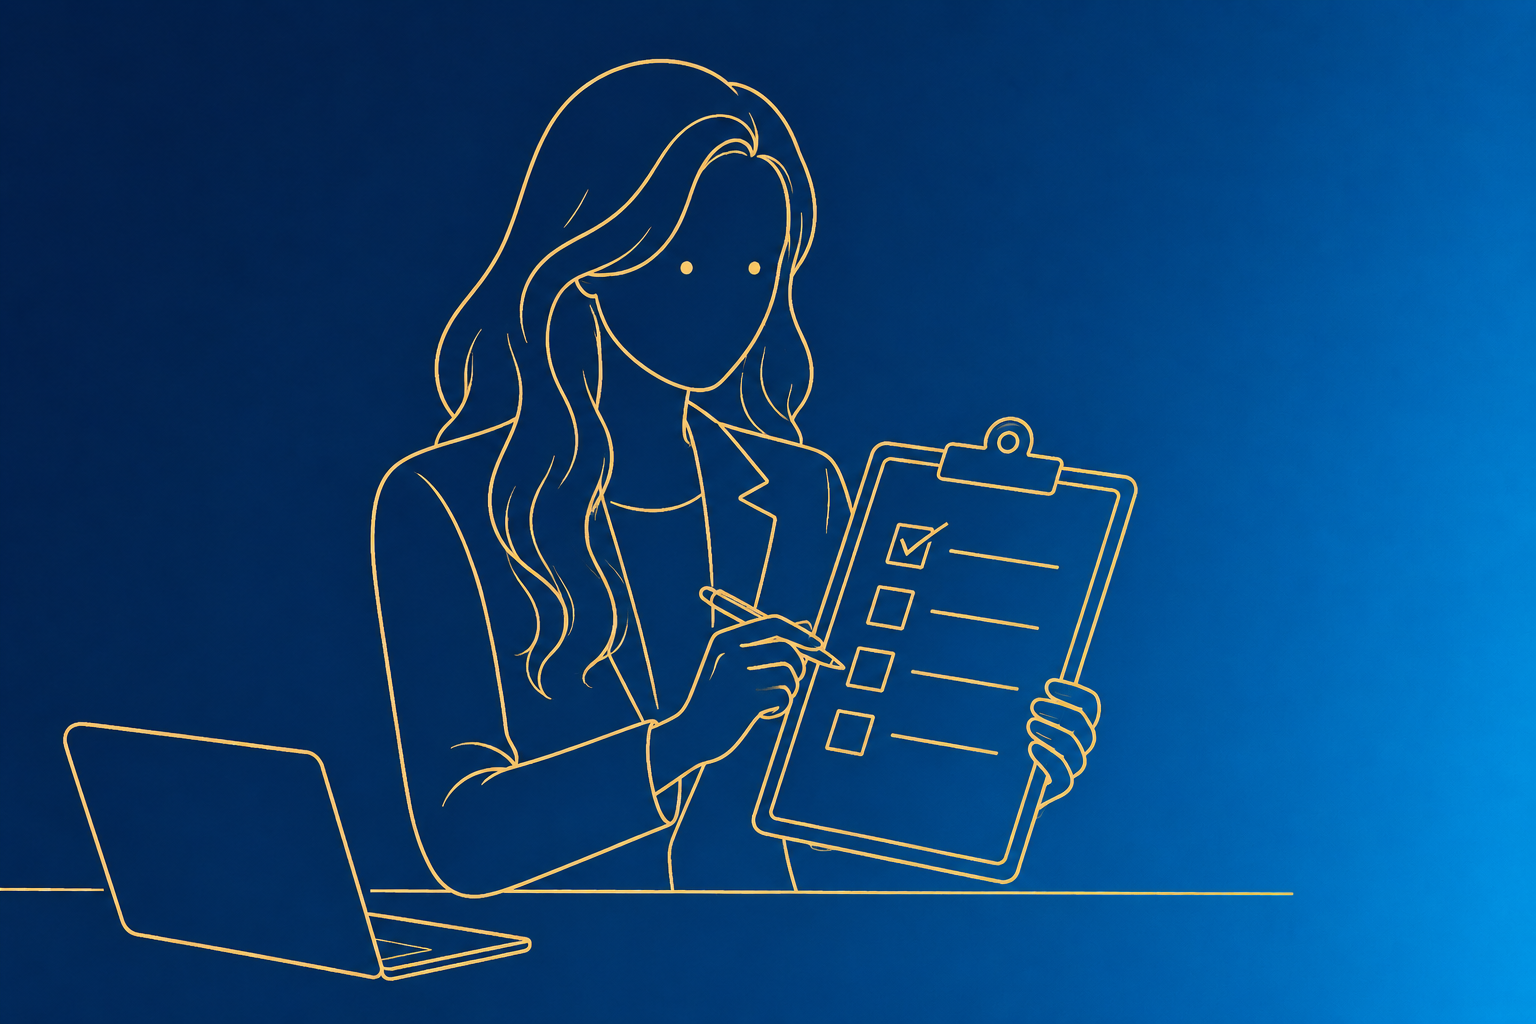
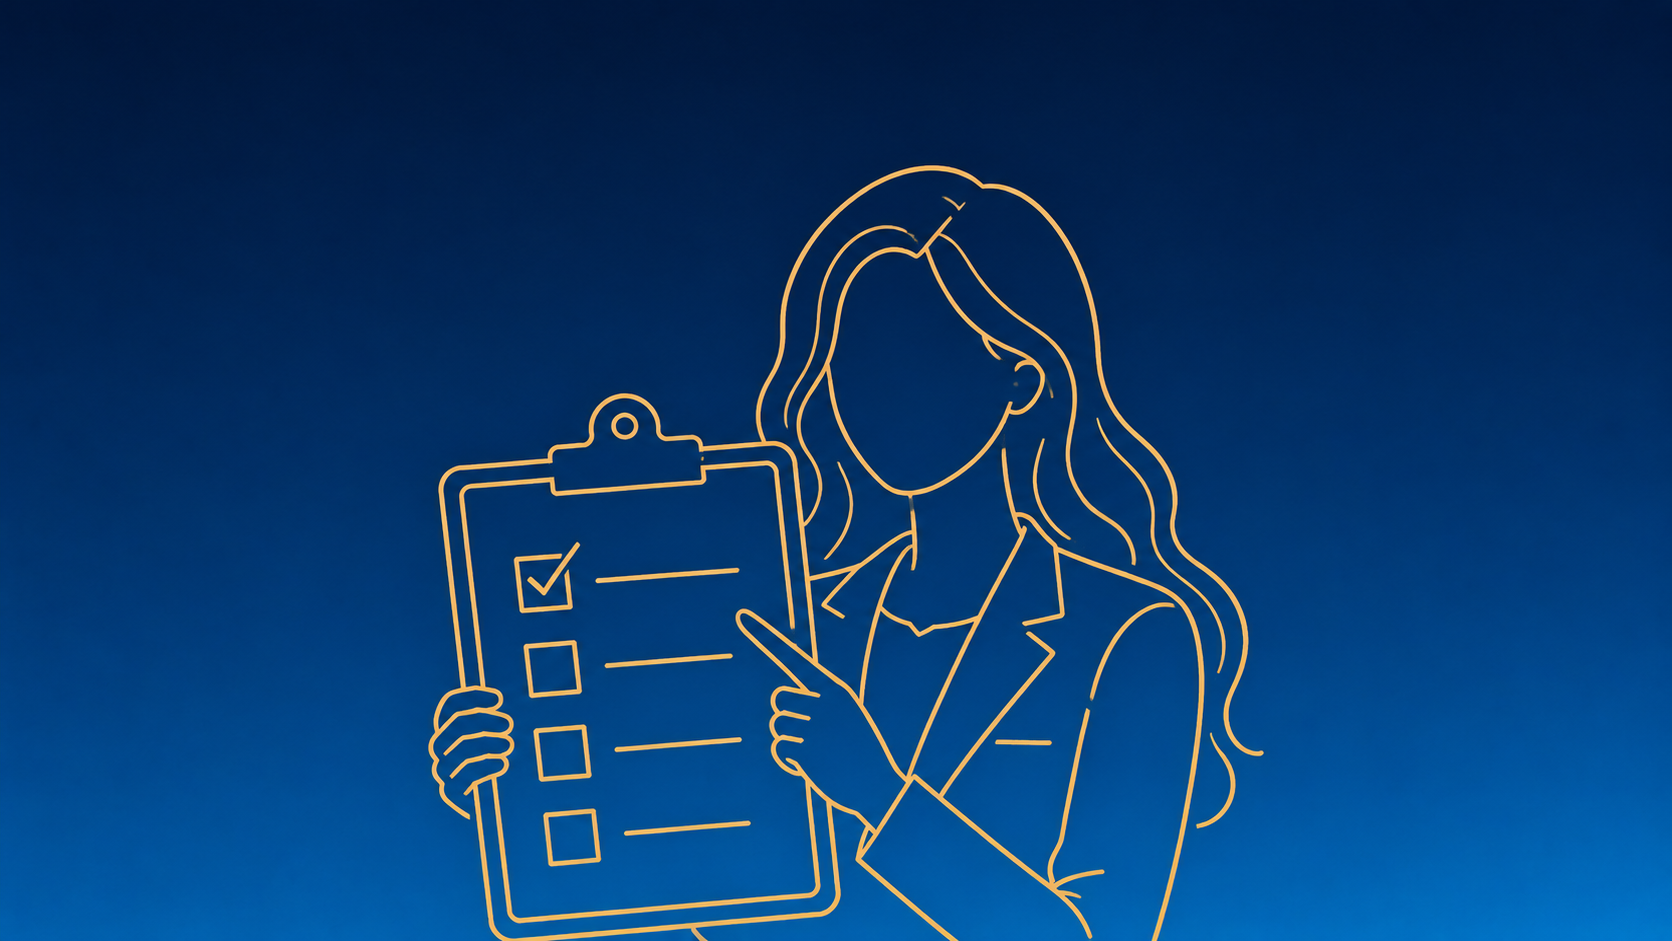
Add files via upload

diff --git a/index.html b/index.html
@@ -557,7 +557,7 @@
     <div class="articles-grid">
       <a href="foreign-employment-risk-checklist.html" class="article-card reveal reveal-delay-1">
         <div class="article-thumb" style="padding:0;">
-          <img src="article-checklist-illustration.png" alt="外国人雇用リスクセルフチェックのイメージ" style="width:100%;height:100%;object-fit:cover;object-position:center 30%;display:block;">
+          <img src="article-checklist-illustration.png" alt="外国人雇用リスクセルフチェックのイメージ" style="width:100%;height:100%;object-fit:cover;object-position:center;display:block;">
         </div>
         <div class="article-body">
           <span class="article-cat">外国人雇用</span>
